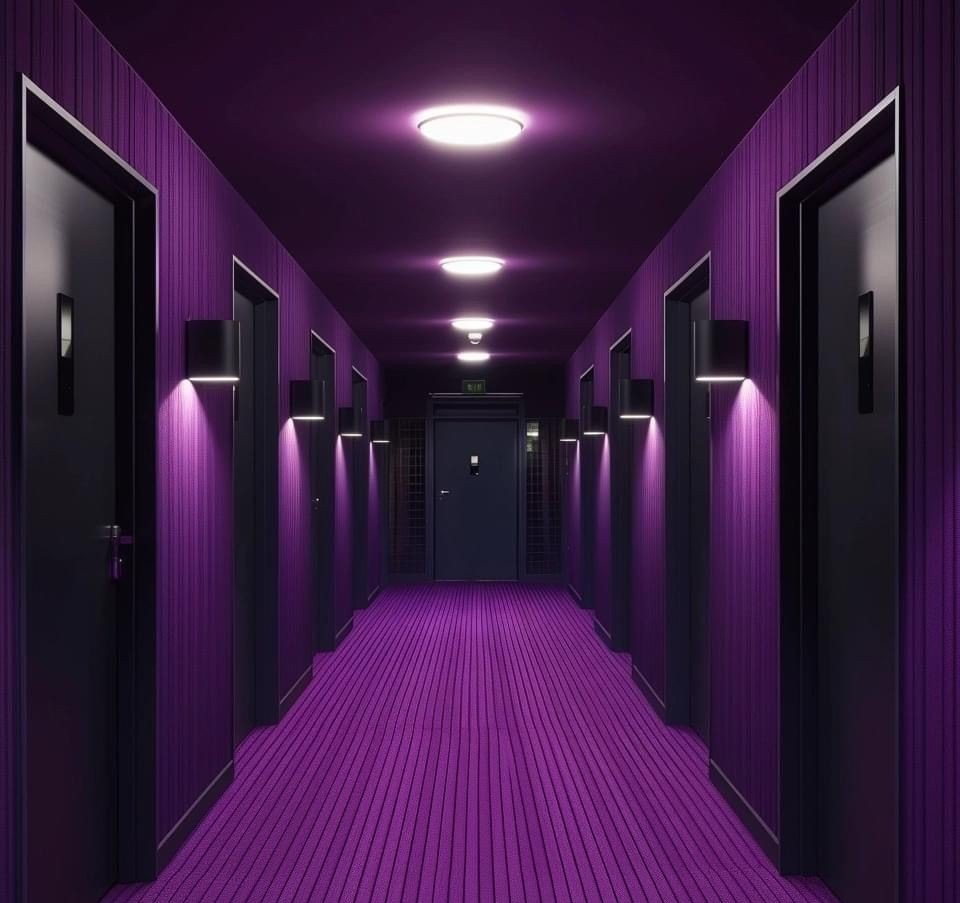
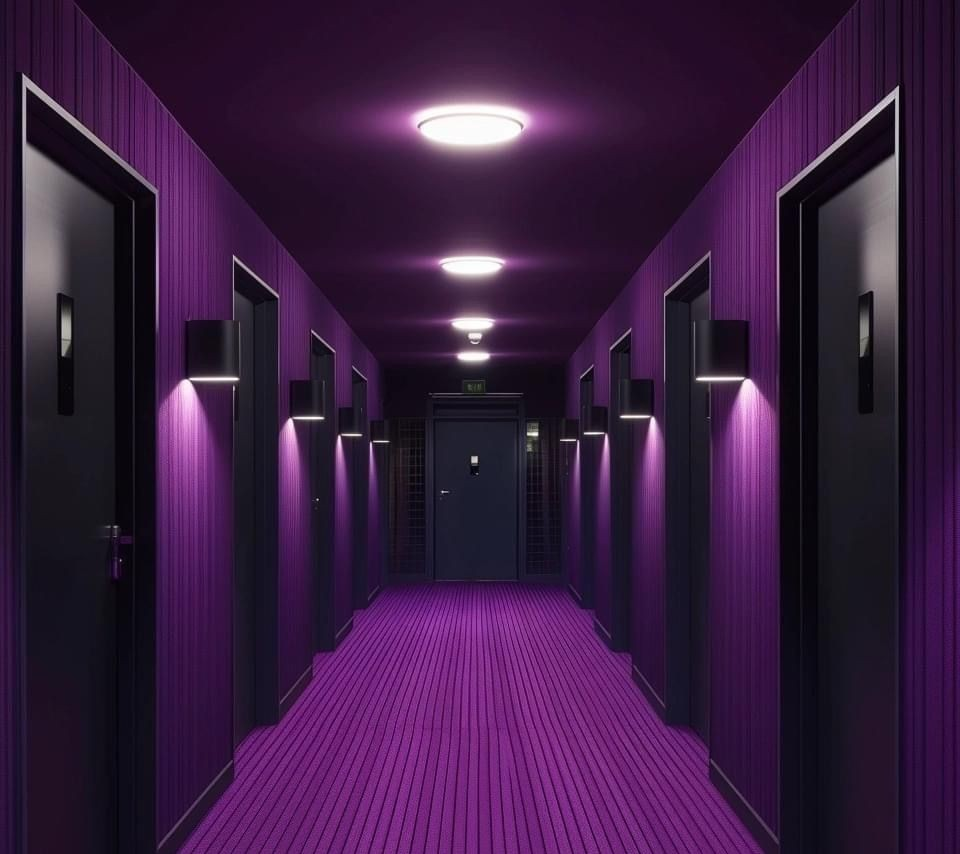
Strategy Track page

diff --git a/src/pages/StrategyTrack/StrategyTrack.jsx b/src/pages/StrategyTrack/StrategyTrack.jsx
@@ -1,167 +1,49 @@
-import { useEffect, useRef } from 'react'
-import { Link } from 'react-router-dom'
+import React from "react";
+import styles from "./Track.module.css";
+import TrackCard from "../../components/TrackCard"
+import BuildImg from "../../assets/BuildImg.jpg";
+import BalanceImg from "../../assets/BalanceImg.jpg";
+import GlobalImg from "../../assets/GlobalImg.jpg";
 
-
-import MoneyImg from "../../assets/MoneyImg.png";
-import SimImg from "../../assets/SimImg.png";
-import StatImg from "../../assets/StatImg.png";
-import DNAImg from "../../assets/DNAImg.png"
-
-
-// ── Stat Card ──────────────────────────────────────────────────────────────
-function StatCard({ label, value, to, delay = 0 }) {
+export default function StrategyTrack() {
   return (
-    <Link to={to} className={styles.statCard} style={{ animationDelay: `${delay}ms` }}>
-      <span className={styles.statLabel}>{label}</span>
-      <span className={styles.statValue}>{value}</span>
-      <span className={styles.statArrow}>↗</span>
-    </Link>
-  )
-}
-
-// Goal Progress Card 
-function GoalCard({ percent = 44, delay = 0 }) {
-  const r = 42
-  const circumference = 2 * Math.PI * r
-  const offset = circumference - (percent / 100) * circumference
-
-  return (
-    <Link to="/money-snapshot" className={`${styles.statCard} ${styles.goalCard}`} style={{ animationDelay: `${delay}ms` }}>
-      <span className={styles.statLabel}>GOAL PROGRESS</span>
-      <div className={styles.ringWrap}>
-        <svg width="100" height="100" viewBox="0 0 100 100" className={styles.ring}>
-          <circle cx="50" cy="50" r={r} fill="none" stroke="rgba(200,75,255,0.12)" strokeWidth="8"/>
-          <circle
-            cx="50" cy="50" r={r}
-            fill="none"
-            stroke="url(#ringGrad)"
-            strokeWidth="8"
-            strokeLinecap="round"
-            strokeDasharray={circumference}
-            strokeDashoffset={offset}
-            transform="rotate(-90 50 50)"
-            className={styles.ringProgress}
-          />
-          <defs>
-            <linearGradient id="ringGrad" x1="0%" y1="0%" x2="100%" y2="0%">
-              <stop offset="0%" stopColor="#c84bff"/>
-              <stop offset="100%" stopColor="#e8b84b"/>
-            </linearGradient>
-          </defs>
-        </svg>
-        <span className={styles.ringPct}>{percent}%</span>
-      </div>
-      <span className={styles.statArrow}>↗</span>
-    </Link>
-  )
-}
-
-// ── Feature Card ───────────────────────────────────────────────────────────
-function FeatureCard({ title, to, pattern, delay = 0 }) {
-  return (
-    <Link to={to} className={styles.featureCard} style={{ animationDelay: `${delay}ms` }}>
-      <div className={styles.featurePattern}>{pattern}</div>
-      <span className={styles.featureTitle}>{title}</span>
-      <span className={styles.featureArrow}>↗</span>
-    </Link>
-  )
-}
-
-// ── Sparkline SVG patterns ─────────────────────────────────────────────────
-const MoneyPattern = () => (
-  <div 
-    className={styles.patternBg}
-  >
-    <img src = {MoneyImg}/>
-  </div>
-)
-
-const StrategyPattern = () => (
-   <div 
-    className={styles.patternBg}
-  >
-    <img src = {StatImg}/>
-  </div>
-)
-
-const SimPattern = () => (
-   <div 
-    className={styles.patternBg}
-  >
-    <img src = {SimImg}/>
-  </div>
-)
-
-const DNAPattern = () => (
-   <div 
-    className={styles.patternBg}
-  >
-    <img src = {DNAImg}/>
-  </div>
-);
-
-// ── Home Page ──────────────────────────────────────────────────────────────
-export default function Home() {
-  const heroRef = useRef(null)
-
-  return (
-    <main className={styles.main}>
-      
-
-      {/* ── HERO ── */}
-      <section className={styles.hero} ref={heroRef}>
+    <div className={styles.container}>
+      <main className={styles.main}>
         <div className={styles.heroContent}>
-          <p className={styles.heroPre}>ABSA NEXT GEN WEALTH</p>
-          <h1 className={styles.heroHeading}>
-            Take Control of Your<br />
-            <em>FINANCES</em>
-          </h1>
-          <p className={styles.heroCopy}>
-            You're not just banking. You're building wealth from day one. Absa Next Gen
-            Wealth gives you a real-time cockpit for your money — designed for the critical
-            first five years of your financial journey.
+          <h1>Strategy Track</h1>
+          <p className={styles.intro}>
+            The Strategy Tracks are predefined financial journeys designed to
+            help you make clearer long-term decisions. This dashboard presents a
+            structured 5-year roadmaps that show where you’re heading
+            financially, the milestones you can expect along the way, and the
+            behavioural adjustments needed to stay on course.
           </p>
-          <Link to="/profile" className={styles.ctaBtn}>
-            Start my 5-year plan
-            <span className={styles.ctaArrow}>→</span>
-          </Link>
         </div>
-      </section>
 
-      {/* ── STAT CARDS ── */}
-      <section className={styles.statsSection}>
-        <div className={styles.statsGrid}>
-          <StatCard label="TOTAL INCOME"  value="R46 000"   to="/money-snapshot"    delay={0}   />
-          <StatCard label="FIXED COSTS"   value="R41 150"   to="/money-snapshot"  delay={80}  />
-          <StatCard label="DEBT BALANCE"  value="R160 000"  to="/money-snapshot"    delay={160} />
-          <GoalCard percent={44} delay={240} />
-        </div>
-      </section>
+        <div className={styles.grid}>
+          <TrackCard
+            title="First Property Builder"
+            description="The First Property Builder track is designed for young professionals who are working toward the milestone of home ownership. It focuses on helping you build a solid financial foundation through disciplined saving for a deposit, maintaining a strong credit profile, and ensuring that your future home remains affordable in the long term. This track encourages stability and consistency, guiding you away from high-risk investments and frequent job changes, so you can confidently move toward owning your first property."
+            buttonText="Launch Simulation"
+            status="ready"
+            imageSrc={BuildImg}
+          />
 
-      {/* ── WHY FIVE YEARS ── */}
-      <section className={styles.whySection}>
-        <div className={styles.whyCard}>
-          <div className={styles.whyTopLine} />
-          <h2 className={styles.whyHeading}>Why Five Years?</h2>
-          <p className={styles.whyCopy}>
-            Most people drift through their early earning years. We don't think you should.
-            The gap between your first real paycheck and year five is where small habits
-            become massive wealth. Absa Next Gen Wealth is your co-pilot for that exact
-            window — tracking, teaching, and automating your progress.
-          </p>
-          <div className={styles.whyBottomLine} />
-        </div>
-      </section>
+          <TrackCard
+            title="Balanced Lifestyle & Investing"
+            description="The Balanced Lifestyle and Investing track is designed for professionals who want to enjoy their money now while still building long-term financial security. It helps you develop sustainable habits such as investing consistently, staying flexible with your finances, and intentionally budgeting for lifestyle experiences. This track encourages a healthy balance, guiding you away from financial burnout and helping you avoid making decisions driven purely by fear, so you can build wealth while still enjoying the present."
+            status="construction"
+            imageSrc={BalanceImg}
+          />
 
-      {/* ── FEATURE CARDS ── */}
-      <section className={styles.featuresSection}>
-        <div className={styles.featuresGrid}>
-          <FeatureCard title="MONEY SNAPSHOT"   to="/money"   pattern={<MoneyPattern />}   delay={0}   />
-          <FeatureCard title="STRATEGY TRACKER" to="/track" pattern={<StrategyPattern />} delay={80}  />
-          <FeatureCard title="SIMULATION LAB"   to="/simulation"   pattern={<SimPattern />}      delay={160} />
-          <FeatureCard title="BANKING DNA"       to="/DNA"       pattern={<DNAPattern />}      delay={240} />
+          <TrackCard
+            title="Aggressive Global Investor"
+            description="The Aggressive Global Investor track is designed for ambitious high earners who are comfortable taking on higher levels of risk in pursuit of faster wealth growth. It focuses on helping you maintain a high savings and investment rate, expand your exposure to global markets, and actively engage with emerging financial opportunities. This track encourages a proactive and growth-driven mindset, guiding you toward building significant wealth through strategic, globally diversified investing."
+            status="construction"
+            imageSrc={GlobalImg}
+          />
         </div>
-      </section>
-    </main>
-  )
+      </main>
+    </div>
+  );
 }

diff --git a/src/components/TrackCard.jsx b/src/components/TrackCard.jsx
@@ -1,0 +1,26 @@
+import React from "react";
+import styles from "../pages/StrategyTrack/Track.module.css";
+
+
+export default function TrackCard({ title, description, buttonText, status, imageSrc }) {
+  return (
+    <div className={styles.card}>
+      <div className={styles.cardImage}>
+        <img src={imageSrc} alt={title} />
+      </div>
+
+      <div className={styles.cardContent}>
+        <h2>{title}</h2>
+        <p>{description}</p>
+
+        {status === "ready" && (
+          <button className={styles.button}>{buttonText}</button>
+        )}
+
+        {status === "construction" && (
+          <div className={styles.status}>🔒 Under Construction</div>
+        )}
+      </div>
+    </div>
+  );
+}

diff --git a/src/pages/SimulationLab/SimulationLab.jsx b/src/pages/SimulationLab/SimulationLab.jsx
@@ -9,7 +9,7 @@ export default function SimulationLab() {
   return (
     <div className={styles.container}>
       <main className={styles.main}>
-        <div class = {styles.heroContent}>
+        <div className = {styles.heroContent}>
         <h1>Simulation Lab</h1>
         <p className={styles.intro}>
           The Simulation Lab helps you test out your financial decisions before

diff --git a/src/pages/StrategyTrack/Track.module.css b/src/pages/StrategyTrack/Track.module.css
@@ -60,9 +60,7 @@ h1 {
   gap: 24px;
  
 }
- /*fix this*/
 .cardImage {
-  object-fit: cover;
   width: 160px;
   height: 160px;
   margin-top: 8px;
